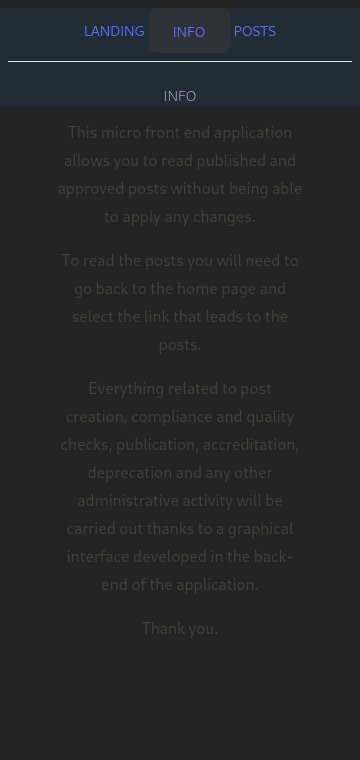
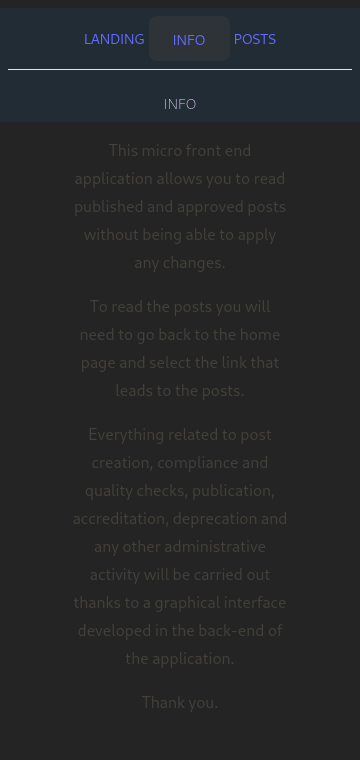
further review, integration, improvement of the code and project structure

diff --git a/templates/agora/ui-agora01/src/lib/components/views/InfoView.tsx b/templates/agora/ui-agora01/src/lib/components/views/InfoView.tsx
@@ -1,29 +1,29 @@
-import Header from './Header'
+import Header from '../Header'
 
-export const Info = () => {
+export const InfoView = () => {
     return (
         <>
-            <header>
+            <header className='mb-2'>
                 <Header title="info" />
             </header>
 
-            <main className="mt-3">
+            <main className="mt-24">
                 <section id="info-content">
-                    <article className="m-4">
-                        <p className="p-2 prose md:prose-lg lg:prose-xl prose-stone">
+                    <article className="m-8">
+                        <p className="prose md:prose-lg lg:prose-xl prose-stone p-2">
                             This micro front end application allows you to read published and approved posts without
                             being able to apply any changes.
                         </p>
-                        <p className="p-2 prose md:prose-lg lg:prose-xl prose-stone">
+                        <p className="prose md:prose-lg lg:prose-xl prose-stone p-2">
                             To read the posts you will need to go back to the home page and select the link that
                             leads to the posts.
                         </p>
-                        <p className="p-2 prose md:prose-lg lg:prose-xl prose-stone">
+                        <p className="prose md:prose-lg lg:prose-xl prose-stone p-2">
                             Everything related to post creation, compliance and quality checks, publication,
                             accreditation, deprecation and any other administrative activity will be carried out
                             thanks to a graphical interface developed in the back-end of the application.
                         </p>
-                        <p className="p-2 prose md:prose-lg lg:prose-xl prose-stone">Thank you.</p>
+                        <p className="prose md:prose-lg lg:prose-xl prose-stone p-2">Thank you.</p>
                     </article>
                 </section>
             </main>

diff --git a/templates/agora/ui-agora01/src/lib/components/views/LandingView.jsx b/templates/agora/ui-agora01/src/lib/components/views/LandingView.jsx
@@ -1,15 +1,21 @@
-import '../../App.css'
-import AgoraLogo from './AgoraLogo'
-import { Navbar } from './Navbar'
+import '../../../App.css'
+import AgoraLogo from '../AgoraLogo'
+import { Navbar } from '../Navbar'
+import { Provider } from 'react-redux'
+import { csrfCookieStore } from '../../stores/csrf-cookie-store.js'
+import { CsrfCookieConsole } from '../console/CsrfCookieConsole.jsx'
 
-export const Landing = () => {
+export const LandingView = () => {
 
     return (
         <>
-            <header className="navbar">
+            <Provider store={csrfCookieStore}>
+                <CsrfCookieConsole />
+            </Provider>
+            <header className="navbar mb-2">
                 <Navbar />
                 {/* title */}
-                <h1 className="text-sm font-light text-purple-600 uppercase md:text-xl lg:text-2xl">
+                <h1 className="mb-2 text-sm font-light text-purple-600 uppercase md:text-xl lg:text-2xl">
                     agora
                 </h1>
             </header>
@@ -26,7 +32,7 @@ export const Landing = () => {
                 <div className="fixed right-1 left-1 bottom-2 justify-center items-center">
                     <p className="m-2 text-xs font-semibold text-purple-400 md:text-base lg:text-xl">
                         For changes to this view the first file to edit is almost always:{' '}
-                        <code className="font-mono text-purple-300">src/lib/components/Landing.tsx</code>.
+                        <code className="font-mono text-purple-300">src/lib/components/views/LandingView.jsx</code>.
                     </p>
                 </div>
             </footer>

diff --git a/templates/agora/ui-agora01/src/lib/services/posts-service.js b/templates/agora/ui-agora01/src/lib/services/posts-service.js
@@ -1,0 +1,33 @@
+import { createApi, fetchBaseQuery } from '@reduxjs/toolkit/query/react'
+import ENV from '../env/env'
+
+export const jsonApiPosts = createApi({
+    reducerPath: 'jsonApiPosts',
+    baseQuery: fetchBaseQuery({
+        baseUrl: ENV.baseApiUrl
+    }),
+    endpoints: (builder) => ({
+        // This query requires all posts:
+        getPosts: builder.query({
+            query: () => "posts"
+        }),
+        // This is the query that requires a specific post:
+        getPost: builder.query({
+            query: (id) => `posts/${id}`
+        }),
+        // This is the query that requires pagination with an optional search filter:
+        getPaginatePosts: builder.query({
+            query: (page, sieve) => `paginate/${page}?filter=${sieve}`
+        }),
+    })
+})
+
+
+// Please note: { use`getPosts`Query } => `useGetPostsQuery`
+// Please note: { use`getPost`Query } => `useGetPostQuery`
+// Please note: { use`getPaginatePosts`Query } => `useGetPaginatePostsQuery`
+export const { 
+    useGetPostsQuery, 
+    useGetPostQuery,
+    useGetPaginatePostsQuery
+ } = jsonApiPosts

diff --git a/templates/agora/ui-agora01/src/main.jsx b/templates/agora/ui-agora01/src/main.jsx
@@ -1,0 +1,18 @@
+import "./index.css"
+import ReactDOM from "react-dom/client"
+import { BrowserRouter, Routes, Route } from "react-router"
+import { LandingView } from "./lib/components/views/LandingView.jsx"
+import { InfoView } from "./lib/components/views/InfoView.tsx"
+import { PostsView } from "./lib/components/views/PostsView.jsx"
+
+const root = document.getElementById("root")
+
+ReactDOM.createRoot(root).render(
+  <BrowserRouter>
+    <Routes>
+      <Route path="/" element={<LandingView />} />
+      <Route path="info" element={<InfoView />} />
+      <Route path="posts" element={<PostsView />} />
+    </Routes>
+  </BrowserRouter>
+)

diff --git a/templates/agora/ui-agora01/src/lib/services/csrf-cookie-service.js b/templates/agora/ui-agora01/src/lib/services/csrf-cookie-service.js
@@ -1,0 +1,18 @@
+import { createApi, fetchBaseQuery } from '@reduxjs/toolkit/query/react'
+import ENV from '../env/env'
+
+export const csrfCookieApi = createApi({
+    reducerPath: 'csrfCookieApi',
+    baseQuery: fetchBaseQuery({
+        baseUrl: ENV.baseCsrfCookieUrl
+    }),
+    endpoints: (builder) => ({
+        // This query requires csrf-cookie:
+        getCsrfCookie: builder.query({
+            query: () => "csrf-cookie"
+        }),
+    })
+})
+
+// Please note: { use`getCsrfCookie`Query } => `useGetCsrfCookieQuery`
+export const { useGetCsrfCookieQuery } = csrfCookieApi

diff --git a/templates/agora/ui-agora01/src/lib/components/views/PostsPaginatorView.jsx b/templates/agora/ui-agora01/src/lib/components/views/PostsPaginatorView.jsx
@@ -1,0 +1,20 @@
+import {useGetPostsQuery} from '../../services/posts-service.js'
+
+export const PostsPaginatorView = () => {
+
+    const {data, error, isLoading} = useGetPostsQuery()
+
+    console.log('Is Loading: ', isLoading)
+    console.log('Error: ', error)
+    console.dir('Data: ', data)
+
+    return (
+        <>
+            <div className='mt-24'>
+                {
+                    data?.map((post) => (<h3>{post.title}</h3>))
+                }
+            </div>
+        </>
+    )
+}

diff --git a/templates/agora/ui-agora01/src/lib/components/views/PostsView.jsx b/templates/agora/ui-agora01/src/lib/components/views/PostsView.jsx
@@ -1,0 +1,19 @@
+import Header from '../Header'
+import { postsStore } from '../../stores/posts-store.js'
+import { Provider } from 'react-redux'
+import { PostsPaginatorView } from './PostsPaginatorView'
+
+export const PostsView = () => {
+
+    return (
+        <>
+            <header className='mb-2'>
+                <Header title="posts" />
+            </header>
+
+            <Provider store={postsStore}>
+                <PostsPaginatorView />
+            </Provider>
+        </>
+    )
+}

diff --git a/templates/agora/ui-agora01/src/lib/stores/csrf-cookie-store.js b/templates/agora/ui-agora01/src/lib/stores/csrf-cookie-store.js
@@ -1,0 +1,12 @@
+import { configureStore } from "@reduxjs/toolkit"
+import { setupListeners } from "@reduxjs/toolkit/query"
+import { csrfCookieApi } from "../services/csrf-cookie-service.js"
+
+export const csrfCookieStore = configureStore({
+  reducer: {
+    [csrfCookieApi.reducerPath]: csrfCookieApi.reducer,
+  },
+  middleware: (getDefaultMiddleware) => getDefaultMiddleware().concat(csrfCookieApi.middleware),
+})
+
+setupListeners(csrfCookieStore.dispatch)

diff --git a/templates/agora/ui-agora01/src/lib/env/env.ts b/templates/agora/ui-agora01/src/lib/env/env.ts
@@ -1,8 +1,8 @@
 const ENV = {
     baseUrl: "https://api-agora01.hologram-srv.local/",
+    baseApiUrl: "https://api-agora01.hologram-srv.local/api/",
     paginateUrl: "https://api-agora01.hologram-srv.local/api/paginate/",
-    postsUrl: "https://api-agora01.hologram-srv.local/api/posts",
-    cardUriBase: "https://api-agora01.hologram-srv.local/api/posts/"
+    baseCsrfCookieUrl: "https://api-agora01.hologram-srv.local/sanctum/",
 }
 
 export default ENV

diff --git a/templates/agora/ui-agora01/src/lib/stores/posts-store.js b/templates/agora/ui-agora01/src/lib/stores/posts-store.js
@@ -1,0 +1,12 @@
+import { configureStore } from "@reduxjs/toolkit"
+import { setupListeners } from "@reduxjs/toolkit/query"
+import { jsonApiPosts } from "../services/posts-service.js"
+
+export const postsStore = configureStore({
+  reducer: {
+    [jsonApiPosts.reducerPath]: jsonApiPosts.reducer,
+  },
+  middleware: (getDefaultMiddleware) => getDefaultMiddleware().concat(jsonApiPosts.middleware),
+})
+
+setupListeners(postsStore.dispatch)

diff --git a/templates/agora/ui-agora01/src/lib/components/Header.tsx b/templates/agora/ui-agora01/src/lib/components/Header.tsx
@@ -13,7 +13,7 @@ function Header({title = ""}) {
         <>
             <header className="navbar">
                 <Navbar />
-                <h3 className="text-sm font-light text-purple-200 uppercase md:text-lg lg:text-xl">
+                <h3 className="mb-2 text-sm font-light text-purple-200 uppercase md:text-lg lg:text-xl">
                     {title}
                 </h3>
             </header>

diff --git a/templates/agora/ui-agora01/src/lib/components/Navbar.tsx b/templates/agora/ui-agora01/src/lib/components/Navbar.tsx
@@ -6,7 +6,7 @@ export const Navbar = () => {
 
     return (
         <>
-            <nav className="flex justify-center items-center">
+            <nav className="mt-2 flex justify-center items-center">
                 <To path="/" inner="landing" onSite={onSite} />
                 <To path="/info" inner="info" onSite={onSite} />
                 <To path="/posts" inner="posts" onSite={onSite} />
